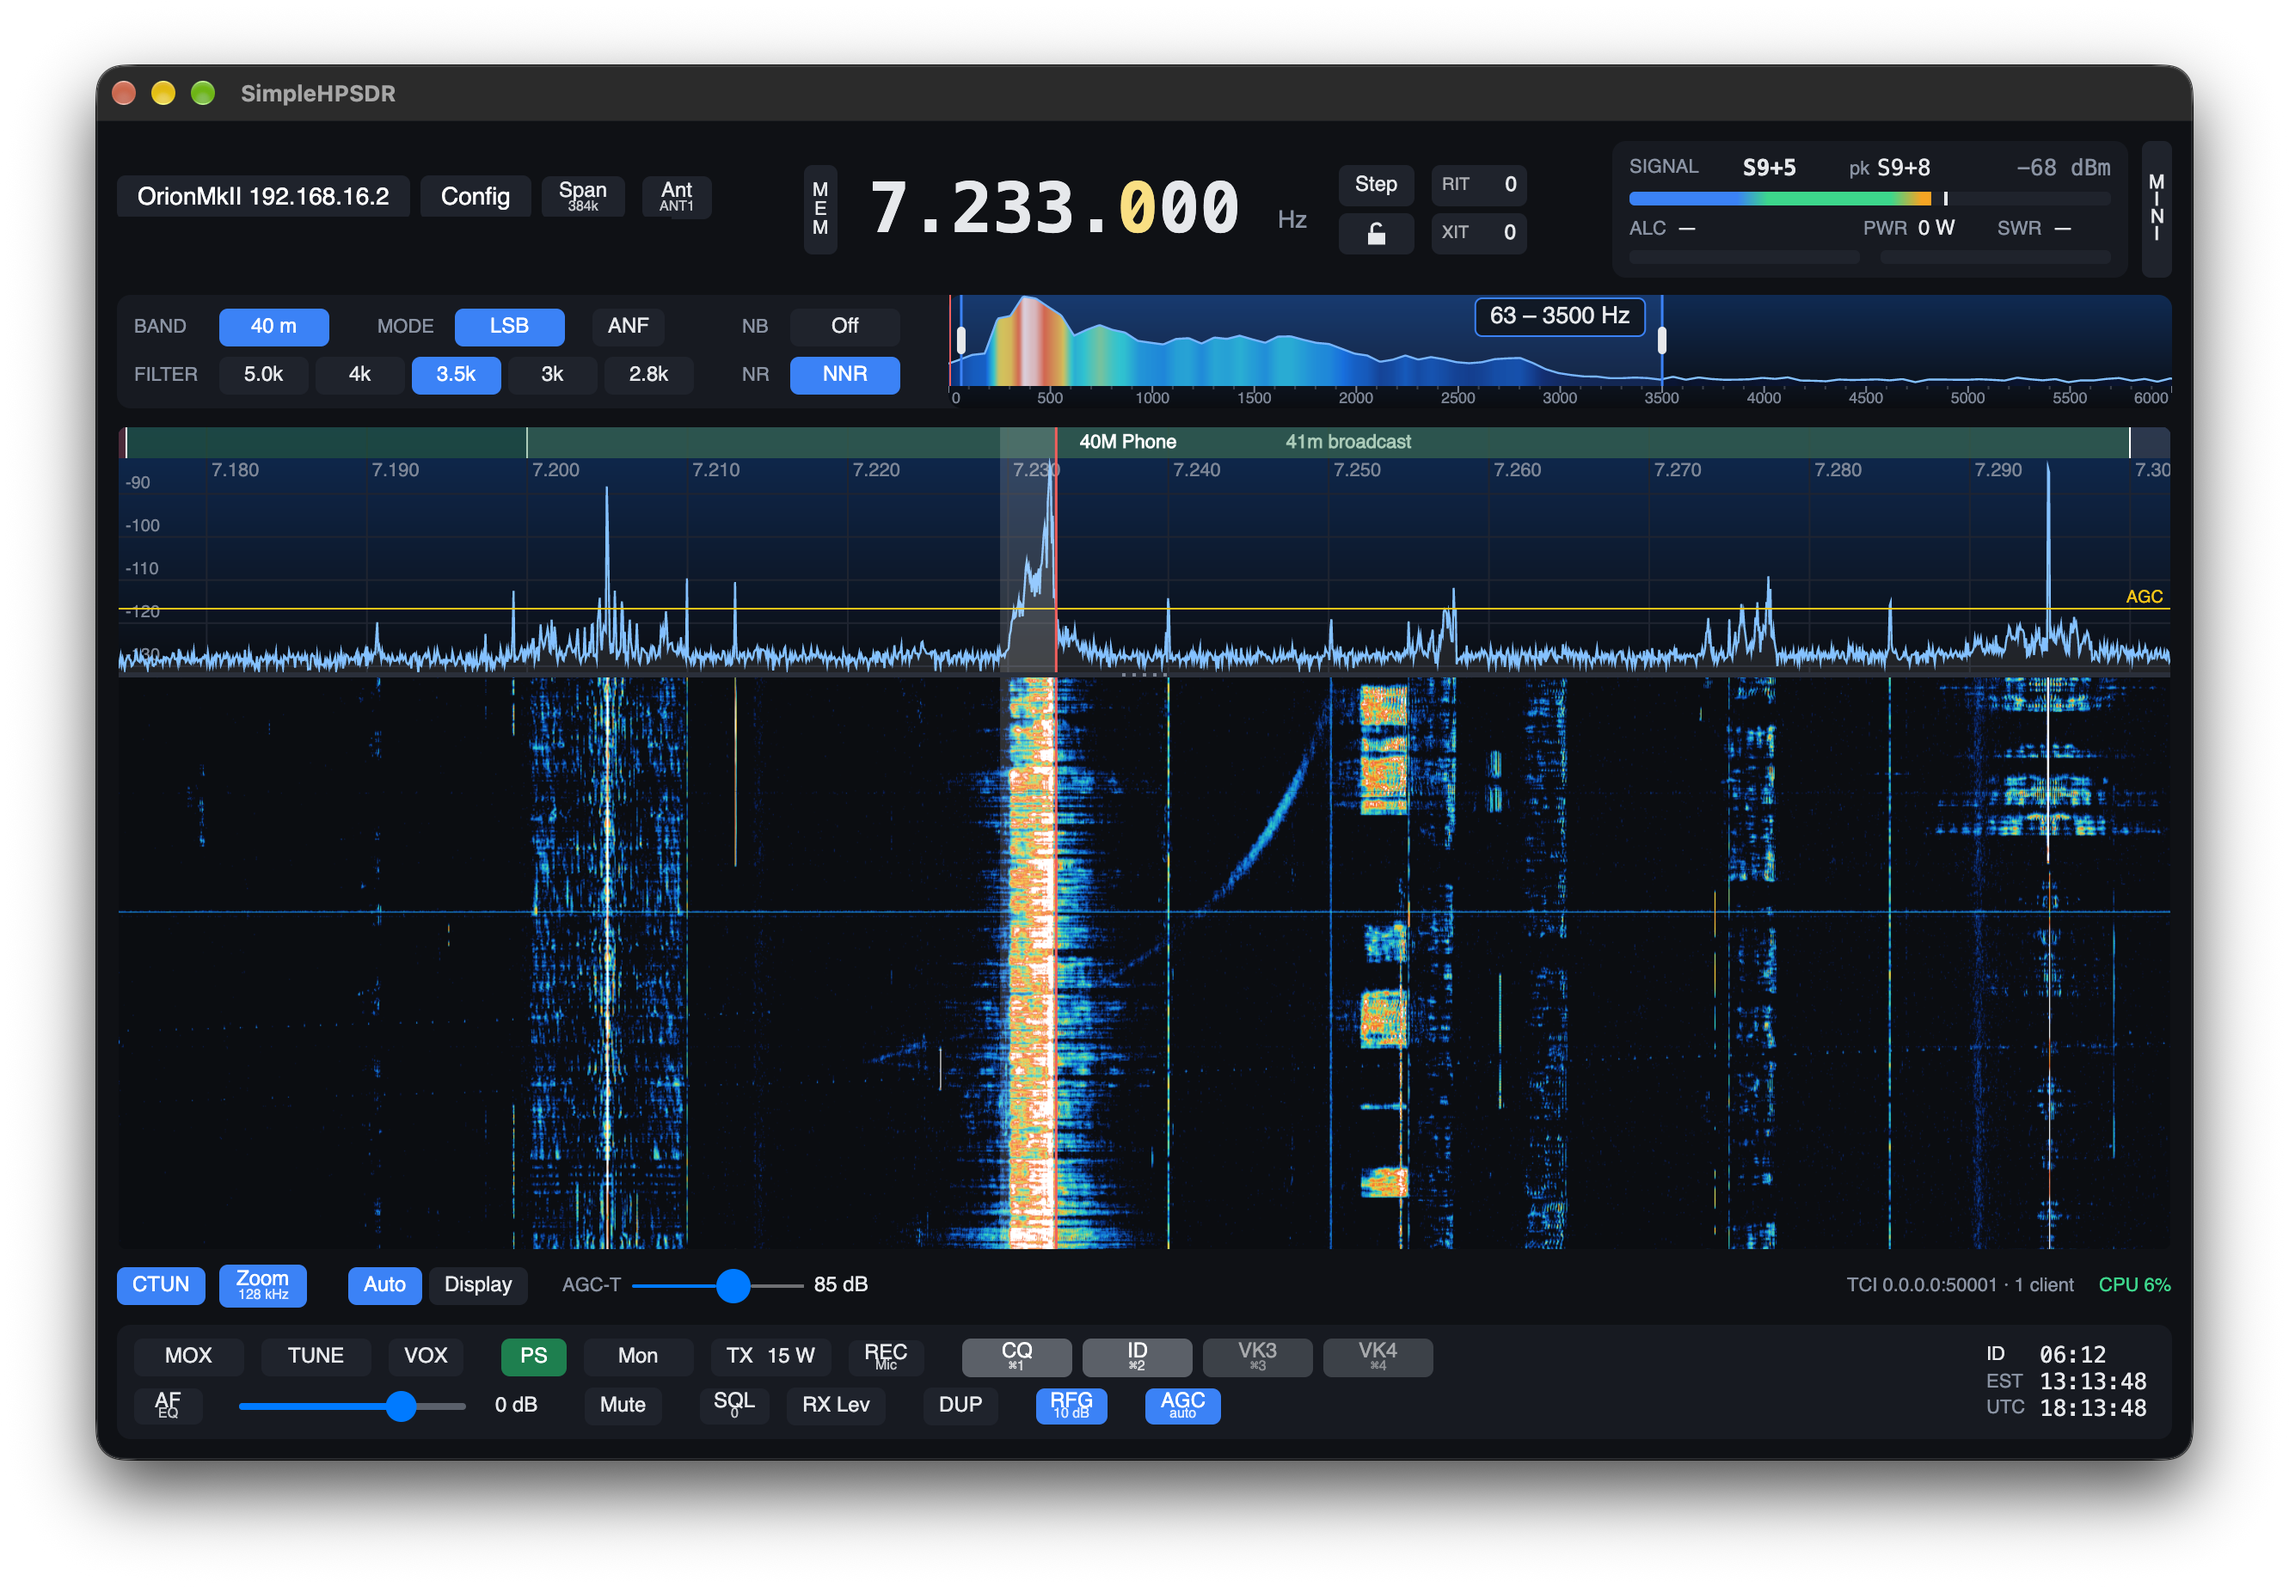
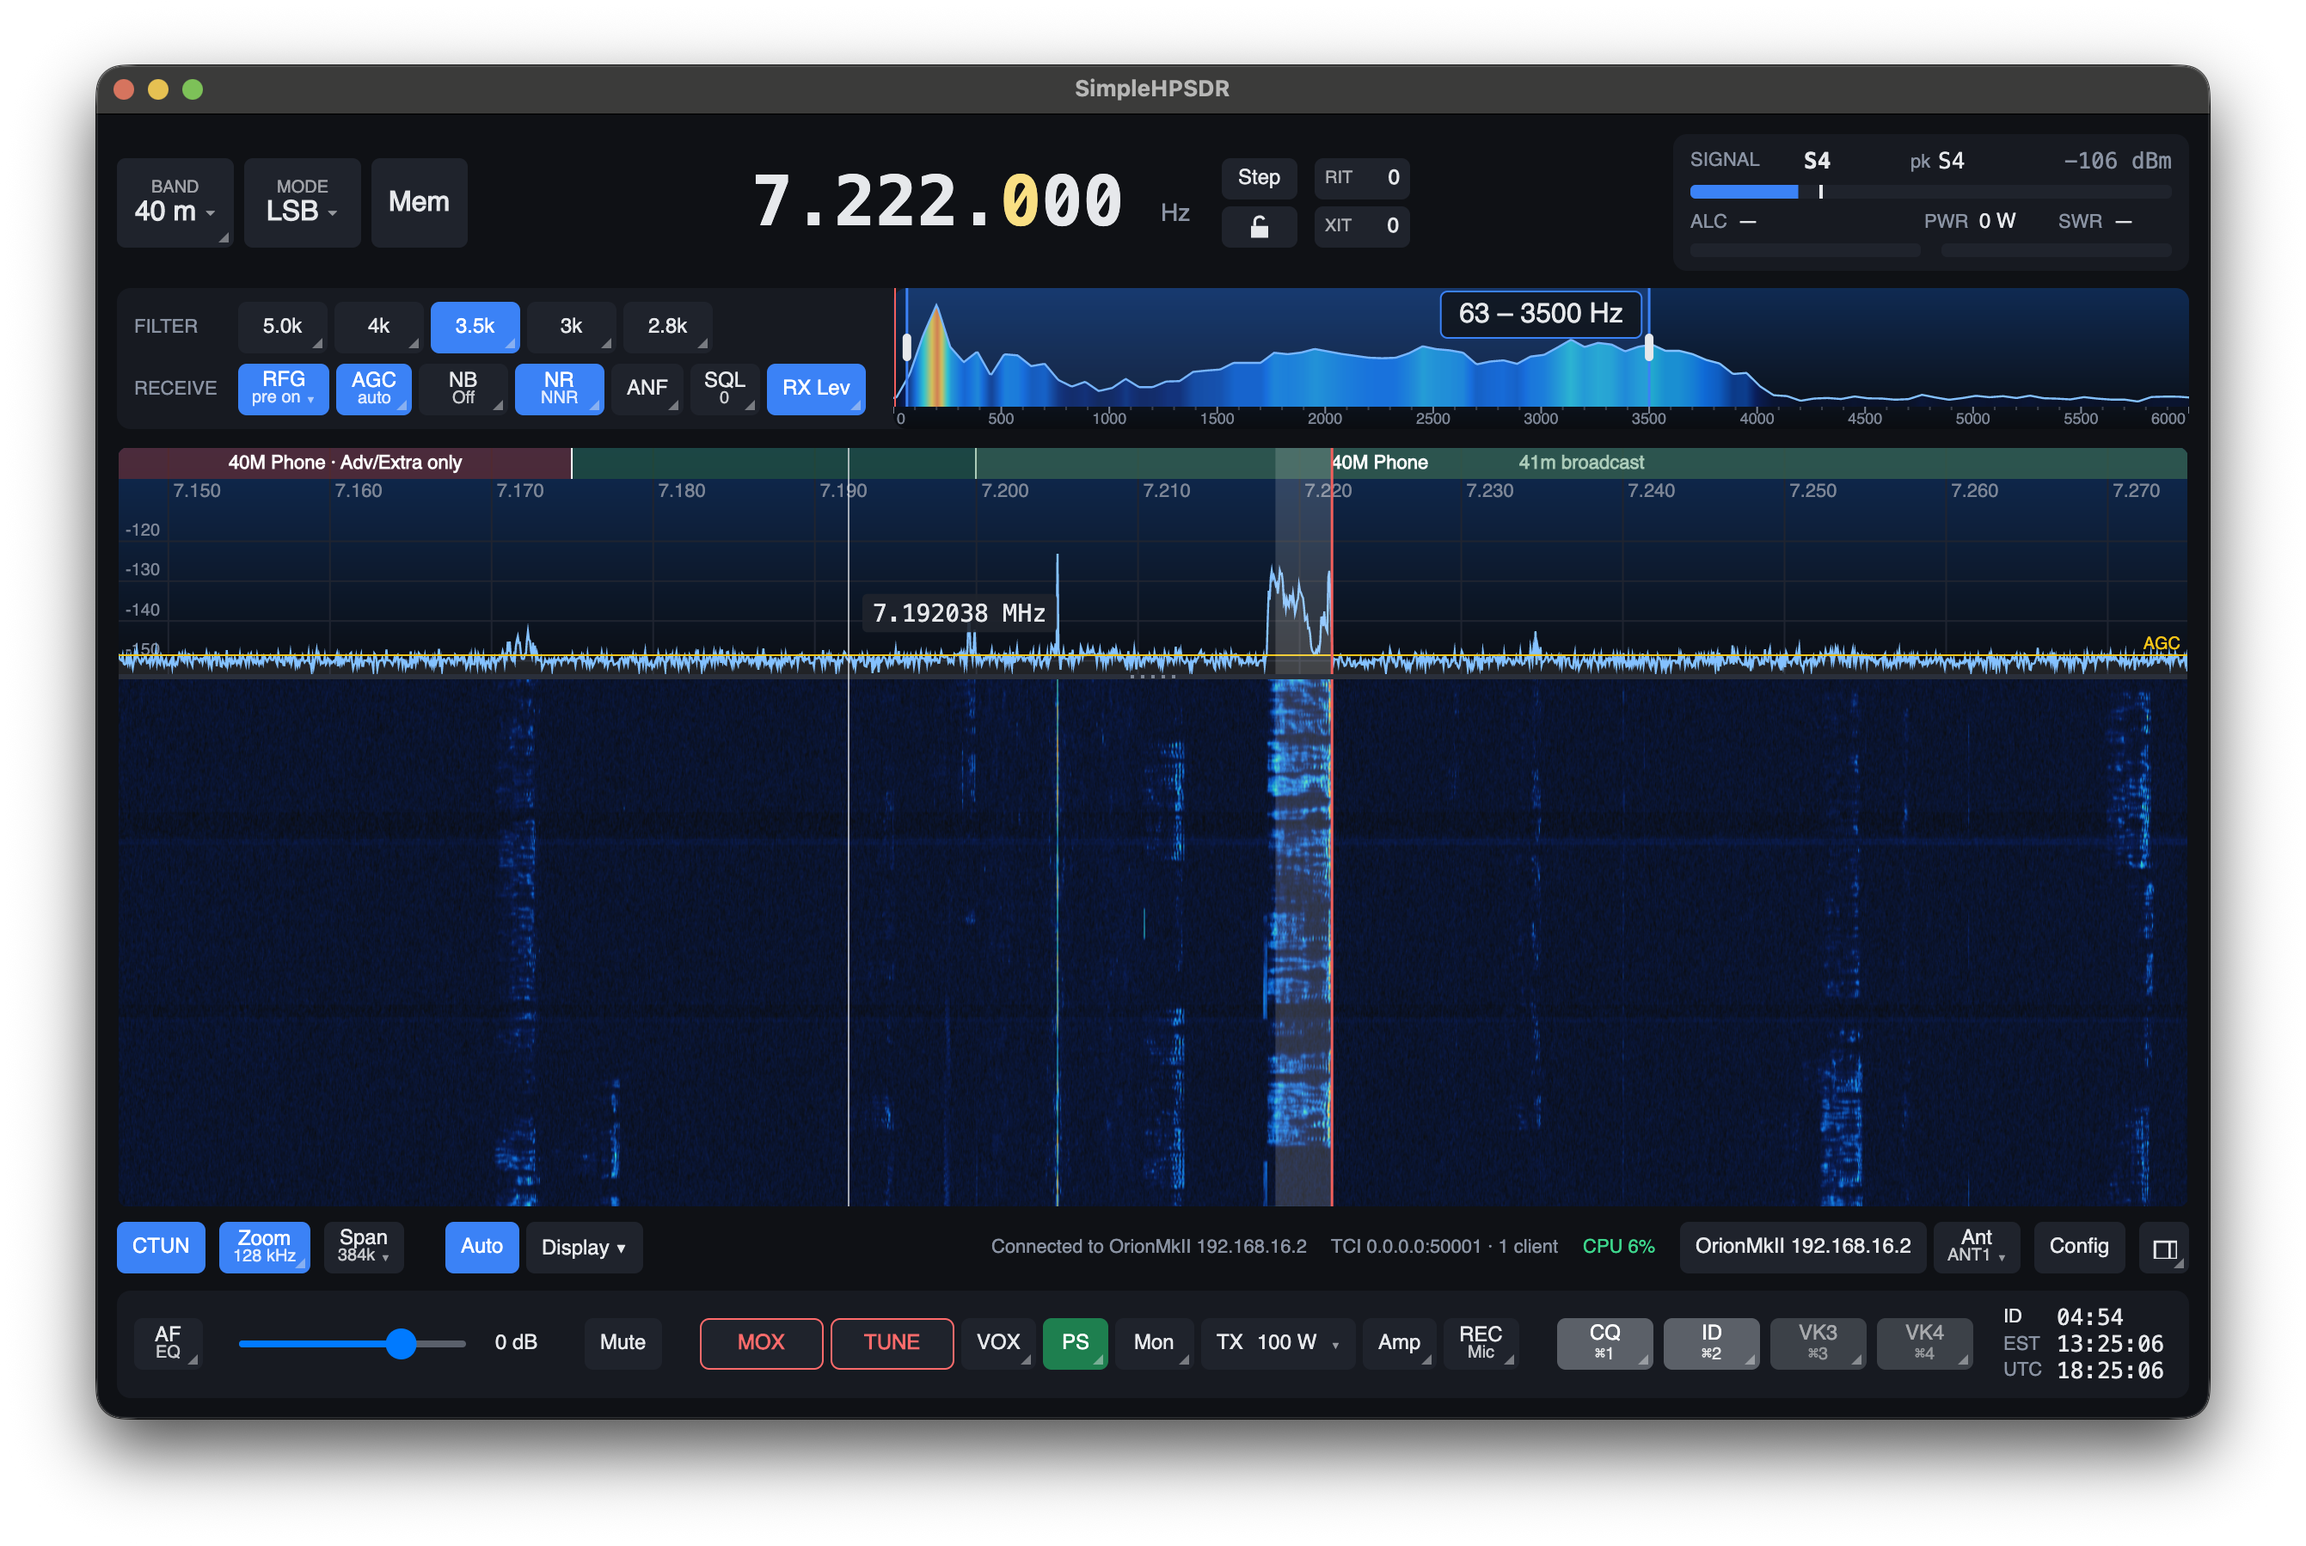
Version 0.12.0: screenshots, Help wording, engine check baseline
The README shows both arrangements, the mini window and the touch layout as
they are now. Help no longer places the close-up, DRM, SWL and WPM where
they used to be. The engine check baseline is from engine .45, with the CW
ID and amplifier routes.

diff --git a/src/SimpleHPSDR/Views/HelpContent.cs b/src/SimpleHPSDR/Views/HelpContent.cs
@@ -43,12 +43,12 @@ A small mark in a button's bottom right corner means it has more behind a right-
 ## DRM
 Where the DRM decoder is installed, the Mode menu has DRM. It needs the TCI server on, in Config > CAT & TCI. Choosing it opens a list of DRM broadcasts: click one to tune it, or tune by hand. DRM stations are listed by the centre of their channel. CTUN turns off while DRM is on and comes back afterwards.
 
-While DRM is on, a DRM button appears beside Mode, and a box at the bottom of the waterfall shows the station, how the signal is doing and any text message it sends. Mute and AF work as usual. Click the button to open the list again. Right-click it to pick another service on stations that carry more than one, or to turn DRM off. DRM is receive only.
+While DRM is on, a DRM button appears beside the filters, and a box at the bottom of the waterfall shows the station, how the signal is doing and any text message it sends. Mute and AF work as usual. Click the button to open the list again. Right-click it to pick another service on stations that carry more than one, or to turn DRM off. DRM is receive only.
 
 ## The station guide (SWL)
 Choose SWL from the Mode menu. The radio defaults to SAM, with a 10 kHz broadcast filter if SAM has no saved settings on that band, and the station guide opens. SAM is only the starting point: change the mode or filter as you like and SWL stays on.
 
-While SWL is on, an SWL button appears beside Mode. Click it to open the guide; you can close the guide at any time and SWL carries on. Right-click the button to turn SWL off.
+While SWL is on, an SWL button appears beside the filters. Click it to open the guide; you can close the guide at any time and SWL carries on. Right-click the button to turn SWL off.
 
 The guide lists non-digital stations from the EiBi shortwave schedule (eibispace.de), from long wave up, in your local time. It updates itself and works from its saved copy when you're offline. Click a heading to sort, pick a language, or search. Click a station to tune it; your mode doesn't change.
 
@@ -157,7 +157,7 @@ The lower part shows the same thing over time, with new rows arriving at the top
 - A red band is a manual notch.
 
 ## Close-up
-The small box at the top right shows 6 kHz from the dial as audio frequency (3 kHz in CW), with the receive filter shaded. It's the best place to see how a voice fits in the filter.
+The close-up, beside the filters, shows 6 kHz from the dial as audio frequency (3 kHz in CW), with the receive filter shaded. It's the best place to see how a voice fits in the filter.
 - Drag the filter's edges in it to set the low and high cuts. The box along its top shows them in Hz.
 - The area under the trace is coloured like the waterfall, so the strongest part of the audio stands out.
 
@@ -198,7 +198,7 @@ Right-click the mode button in AM, SAM or FM. AM has broadcast-style transmit se
 """),
 
         ("CW", """
-Choose CWL or CWU with the mode button, and a WPM button appears beside ANF.
+Choose CWL or CWU with the mode button, and a WPM button appears beside the filters.
 
 ## Your paddle or key
 Connect it to the radio. Right-click WPM to choose a straight key or iambic A or B, and to set the speed, weight, sidetone and paddle direction. The wheel over the WPM button changes speed at any time.
@@ -235,7 +235,7 @@ Press Decode in the CW window to show the active slice's CW as text. The box bes
 ## Tuning and filters
 In CW the frequency shown is the carrier of the signal, and the filter is centred on the dial. Click a signal on the panadapter, or tune until it lines up with the dial line, and you'll hear it at a 600 Hz tone.
 
-The close-up at the top right is your tuning indicator. It spans 3 kHz in CW, and its dial line sits at the 600 Hz CW offset, not at 0. Tune so the signal's peak sits on that line, in the middle of the shaded filter, and you're on frequency.
+The close-up beside the filters is your tuning indicator. It spans 3 kHz in CW, and its dial line sits at the 600 Hz CW offset, not at 0. Tune so the signal's peak sits on that line, in the middle of the shaded filter, and you're on frequency.
 
 Use a narrow filter, 200 to 500 Hz. The receive tone is fixed at 600 Hz, so leave the sidetone there if you want to match signals by ear.
 """),
@@ -247,7 +247,7 @@ A filter sets how wide a slice of the band you hear. Narrow it to remove a neigh
 Click a filter button. Each mode has its own set, and the highlighted button is the one in use.
 
 ## Setting the edges
-Drag the handles in the close-up at the top right. In USB, LSB and CW there are two: the low and high cuts. In AM, SAM and FM there's one, and both sides move together. The box along the top of the close-up shows the low and high cuts in Hz as you drag. Right-click the close-up (long press on a touch screen) for its colours, high resolution, detail and averaging; "Close-up" under Reading the display describes them. A long averaging time shows where a voice's energy usually sits, which makes the edges easy to place.
+Drag the handles in the close-up beside the filters. In USB, LSB and CW there are two: the low and high cuts. In AM, SAM and FM there's one, and both sides move together. The box along the top of the close-up shows the low and high cuts in Hz as you drag. Right-click the close-up (long press on a touch screen) for its colours, high resolution, detail and averaging; "Close-up" under Reading the display describes them. A long averaging time shows where a voice's energy usually sits, which makes the edges easy to place.
 
 As a guide: 2.4 to 2.8 kHz for SSB voice, 200 to 500 Hz for CW, 6 to 10 kHz for AM.
 
@@ -465,7 +465,7 @@ Turn on TX (it goes red) and ▶ transmits the recording instead, at the TX leve
 Right-click REC for the full list: rename, delete, listen, transmit and Open folder. Recordings are WAV files in Music/SimpleHPSDR.
 
 ## The voice keyer
-The four grey buttons right of REC each transmit one recording. Right-click one (long press on touch) to give it a label and choose its recording. Click it to transmit, at the recorder's TX level; it's red while on the air, and a second click or MOX stops it. A button with nothing assigned is dimmed.
+The four grey voice keyer buttons each transmit one recording. Right-click one (long press on touch) to give it a label and choose its recording. Click it to transmit, at the recorder's TX level; it's red while on the air, and a second click or MOX stops it. A button with nothing assigned is dimmed.
 
 Keys: ⌘1 to ⌘4 on a Mac, Ctrl+1 to Ctrl+4 on Windows and Linux, or F5 to F8 (on a Mac hold fn, as F5 is dictation).
 
@@ -556,7 +556,7 @@ Tap Quit at the top of the ☰ drawer, then tap it again within 4 seconds. On th
 The clock at the bottom right shows your local time and UTC.
 
 ## ID timer
-Click ID above the clock to turn on a reminder at each even ten minutes on the clock, while connected to a radio.
+Click ID beside the clock to turn on a reminder at each even ten minutes on the clock, while connected to a radio.
 - Grey at 00:00: off.
 - White: counting down.
 - Green: from 5 seconds before the mark to 5 seconds after.
@@ -651,7 +651,7 @@ Logging, digital and contest programs can control the radio through Config > CAT
 
 Turn on the server you need and note the port. Network changes need Apply now; the radio reconnects in a few seconds.
 
-"This computer only" keeps TCI private. Choose Network only if another computer needs it. The running TCI status shows at the bottom right, beside CPU.
+"This computer only" keeps TCI private. Choose Network only if another computer needs it. The running TCI status shows under the panadapter, beside CPU.
 """),
 
         ("Troubleshooting", """

diff --git a/README.md b/README.md
@@ -13,6 +13,12 @@ this project.
 
 ![SimpleHPSDR on 40 m with PureSignal on](docs/main.png)
 
+The same controls can sit in a panel at the side instead, which gives the
+panadapter the window's full height. The view button under the panadapter
+switches between the two.
+
+![The side arrangement: controls in a panel beside a full-height panadapter](docs/side.png)
+
 A lot of work has gone into reducing TX/RX latency in the turnover times, 
 improving Pure Signal lock speed and function as well.
 
